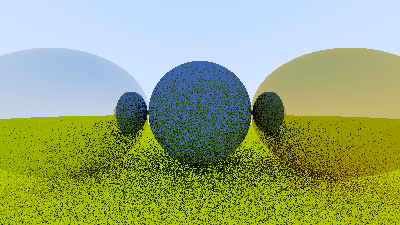
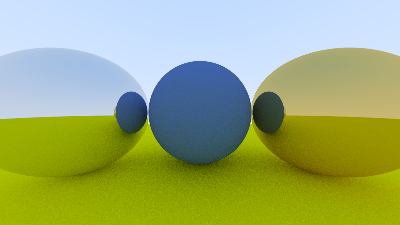
updated readme

diff --git a/README.md b/README.md
@@ -1,4 +1,5 @@
 ### Setup
+
 1. Set up virtual environment
 
 ```bash
@@ -18,8 +19,6 @@ Ray trace default world (defined in ray\_tracer2/main.py) with default settings:
 (.venv) $ python3.12 ray-tracer2.py
 ```
 
-![](output_image.png)
-
 ```bash
 (.venv) $ python3.12 ray-tracer2.py --help
 Ray Tracer in Python!
@@ -36,3 +35,11 @@ options:
   -a ANTI_ALIASING, --anti-aliasing ANTI_ALIASING
                         Anti-aliasing samples
 ```
+
+### Performance
+
+```bash
+(.venv) $ python3.12 ray-tracer2.py -w 400 -a 100
+100%|███████████████████████████████████████████████████| 9000000/9000000 [18:09<00:00, 8259.10it/s]
+```
+![](output_image.png)
